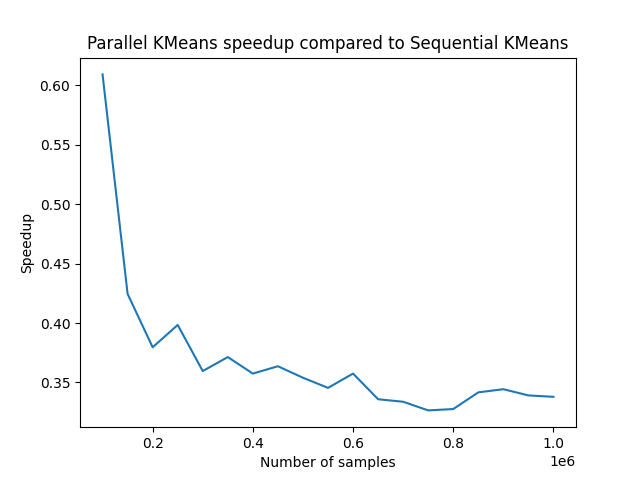
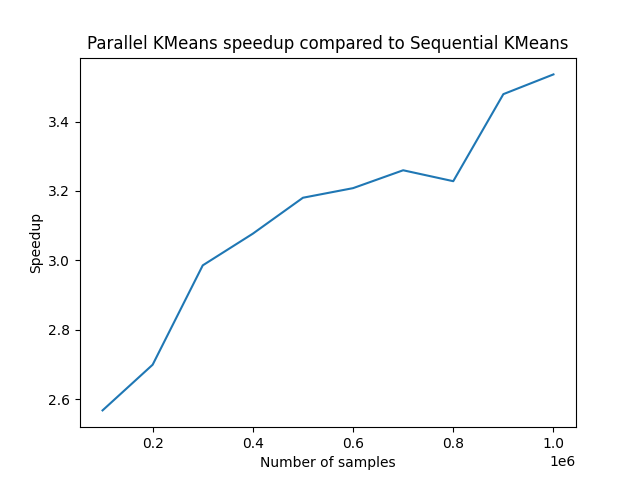
completed testing perfomance

diff --git a/test.py b/test.py
@@ -27,7 +27,7 @@ def generate_data(n_samples, n_features, n_clusters):
     )[0]
 
 
-def train_kmeans(train_data, mode):
+def train_kmeans(train_data, k, mode):
     """Train the KMeans algorithm on the given data.
     
     Args:
@@ -37,7 +37,7 @@ def train_kmeans(train_data, mode):
     Returns:
         float: Execution time of the algorithm.
     """
-    kmeans = kmeans_factory(mode)
+    kmeans = kmeans_factory(k, mode)
         
     start_time = time.time()
     kmeans.fit(train_data)
@@ -52,7 +52,7 @@ def plot_speedup(n_vals, seq_times, par_times):
         seq_times (list): List of execution times for the sequential algorithm.
         par_times (list): List of execution times for the parallel algorithm.
     """
-    speedup = [par_time / seq_time for seq_time, par_time in zip(seq_times, par_times)]
+    speedup = [seq_time / par_time for seq_time, par_time in zip(seq_times, par_times)]
     fig, ax = plt.subplots()
     ax.plot(n_vals, speedup)
     ax.set_xlabel('Number of samples')
@@ -87,15 +87,17 @@ def plot_time(n_vals, seq_times, par_times, val_name):
 def test_samples():
     """Test the parallel KMeans algorithm with different number of samples.
     """
-    train_data = generate_data(n_samples=1000000, n_features=2, n_clusters=5)
+    print('Testing samples')
+    n_clusters = 5
+    train_data = generate_data(n_samples=1000000, n_features=2, n_clusters=n_clusters)
 
     seq_times = []
     par_times = []
-    n_vals = tuple(range(100000, 1000001, 50000))
+    n_vals = tuple(range(100000, 1000001, 100000))
     
     for n in n_vals:
-        seq_times.append(train_kmeans(train_data[:n].copy(), 'sequential'))
-        par_times.append(train_kmeans(train_data[:n].copy(), 'parallel'))
+        seq_times.append(train_kmeans(train_data[:n].copy(), n_clusters, 'sequential'))
+        par_times.append(train_kmeans(train_data[:n].copy(), n_clusters, 'parallel'))
 
     plot_time(n_vals, seq_times, par_times, 'samples')
     plot_speedup(n_vals, seq_times, par_times)
@@ -104,14 +106,16 @@ def test_samples():
 def test_features():
     """Test the parallel KMeans algorithm with different number of features.
     """
+    print('Testing features')
     seq_times = []
     par_times = []
-    n_features_vals = tuple(range(2, 51, 5))
+    n_features_vals = tuple(range(2, 101, 10))
     
     for n_features in n_features_vals:
-        train_data = generate_data(n_samples=100000, n_features=n_features, n_clusters=5)
-        seq_times.append(train_kmeans(train_data, 'sequential'))
-        par_times.append(train_kmeans(train_data, 'parallel'))
+        n_clusters = 5
+        train_data = generate_data(n_samples=100000, n_features=n_features, n_clusters=n_clusters)
+        seq_times.append(train_kmeans(train_data, n_clusters, 'sequential'))
+        par_times.append(train_kmeans(train_data, n_clusters, 'parallel'))
 
     plot_time(n_features_vals, seq_times, par_times, 'features')
     
@@ -119,14 +123,15 @@ def test_features():
 def test_clusters():
     """Test the parallel KMeans algorithm with different number of clusters.
     """
+    print('Testing clusters')
     seq_times = []
     par_times = []
-    centers_vals = tuple(range(2, 51, 5))
+    centers_vals = tuple(range(2, 102, 10))
     
     for centers in centers_vals:
-        train_data = generate_data(n_samples=100000, n_features=2, n_clusters=centers)
-        seq_times.append(train_kmeans(train_data, 'sequential'))
-        par_times.append(train_kmeans(train_data, 'parallel'))
+        train_data = generate_data(n_samples=centers * 1000, n_features=2, n_clusters=centers)
+        seq_times.append(train_kmeans(train_data, centers, 'sequential'))
+        par_times.append(train_kmeans(train_data, centers, 'parallel'))
         
     plot_time(centers_vals, seq_times, par_times, 'clusters')
 

diff --git a/model/parallel_kmeans.py b/model/parallel_kmeans.py
@@ -1,12 +1,12 @@
 import numpy as np
 import matplotlib.pyplot as plt
-import threading
-import os
+from concurrent.futures import ThreadPoolExecutor
 
 from model.base_kmeans import BaseKMeans
 
+
 class KMeansParallel(BaseKMeans):
-    def __init__(self, k=3, max_iter=100, random_state=42, n_threads=8):
+    def __init__(self, k, max_iter=100, random_state=42, n_threads=8):
         super().__init__(k, max_iter, random_state)
         self.n_threads = n_threads
 
@@ -31,16 +31,11 @@ class KMeansParallel(BaseKMeans):
             distances = np.linalg.norm(X[start_idx:end_idx, np.newaxis, :] - centroids, axis=2)
             labels[start_idx:end_idx] = np.argmin(distances, axis=1)
 
-        threads = []
-        for i in range(self.n_threads):
-            start_idx = i * step
-            end_idx = start_idx + step if i < self.n_threads - 1 else X.shape[0]
-            t = threading.Thread(target=assign_points_thread, args=(start_idx, end_idx))
-            threads.append(t)
-            t.start()
-
-        for t in threads:
-            t.join()
+        with ThreadPoolExecutor(max_workers=self.n_threads) as executor:
+            for i in range(self.n_threads):
+                start_idx = i * step
+                end_idx = start_idx + step
+                executor.submit(assign_points_thread, start_idx, end_idx)
 
         return labels
     
@@ -55,14 +50,7 @@ class KMeansParallel(BaseKMeans):
                 centroid = np.random.rand(X.shape[1])
             centroids[i] = centroid
 
-        threads = []
-        for i in range(self.k):
-            t = threading.Thread(target=compute_centroids_thread, args=(i,))
-            threads.append(t)
-            t.start()
-
-        for t in threads:
-            t.join()
-
+        with ThreadPoolExecutor(max_workers=self.n_threads) as executor:
+            executor.map(compute_centroids_thread, range(self.k))
+        
         return centroids
-    

diff --git a/main.py b/main.py
@@ -1,4 +1,52 @@
 from test import test_kmeans
 
+import numpy as np
+from sklearn.datasets import make_blobs
+import matplotlib.pyplot as plt
+import time
+
+from model.kmeans_factory import kmeans_factory
+
+
+def run(n_samples, n_features, n_clusters, visualize=False):
+    """Run the KMeans algorithm on randomly generated data.
+
+    Args:
+        n_samples (int): Number of samples to generate.
+        n_features (int): Number of features to generate.
+        n_clusters (int): Number of clusters to generate.
+        visualize (bool, optional): Whether to visualize the results. Defaults to False.
+    """
+    train_data, _ = make_blobs (
+        n_samples=n_samples, 
+        n_features=n_features, 
+        centers=n_clusters, 
+        cluster_std=5.0, 
+        shuffle=True, 
+        random_state=42
+    )
+
+    kmeans_seq = kmeans_factory('sequential', k=n_clusters)
+    start_time = time.time()
+    kmeans_seq.fit(train_data)
+    print(f"Sequential KMeans time: {time.time() - start_time:.2f} seconds")
+    kmeans_seq.save_model('model/weights/sequential_kmeans.npy')
+    pred1 = kmeans_seq.predict(train_data)
+
+    kmeans_par = kmeans_factory('parallel', k=n_clusters)
+    start_time = time.time()
+    kmeans_par.fit(train_data)
+    print(f"Parallel KMeans time: {time.time() - start_time:.2f} seconds")
+    kmeans_par.save_model('model/weights/parallel_kmeans.npy')
+    pred2 = kmeans_par.predict(train_data)
+
+    print(f"Are the predictions equal? {np.array_equal(pred1, pred2)}")
+    
+    if visualize:
+        kmeans_seq.plot_clusters(train_data, 'Sequential KMeans')
+        kmeans_par.plot_clusters(train_data, 'Parallel KMeans')
+        plt.show()
+
 if __name__ == '__main__':
+    # run(100000, 3, 3, visualize=True)
     test_kmeans()

diff --git a/model/kmeans_factory.py b/model/kmeans_factory.py
@@ -1,13 +1,14 @@
 from model.sequential_kmeans import KMeansSequential
 from model.parallel_kmeans import KMeansParallel
 
-def kmeans_factory(mode):
+def kmeans_factory(k, mode):
     """Return the KMeans algorithm based on the given mode.
     
     Args:
         mode (str): Mode of the algorithm (sequential or parallel).
+        k (int): Number of clusters.
         
     Returns:
         KMeansSequential or KMeansParallel: KMeans algorithm.
     """
-    return KMeansSequential() if mode == 'sequential' else KMeansParallel()
+    return KMeansSequential(k) if mode == 'sequential' else KMeansParallel(k)
